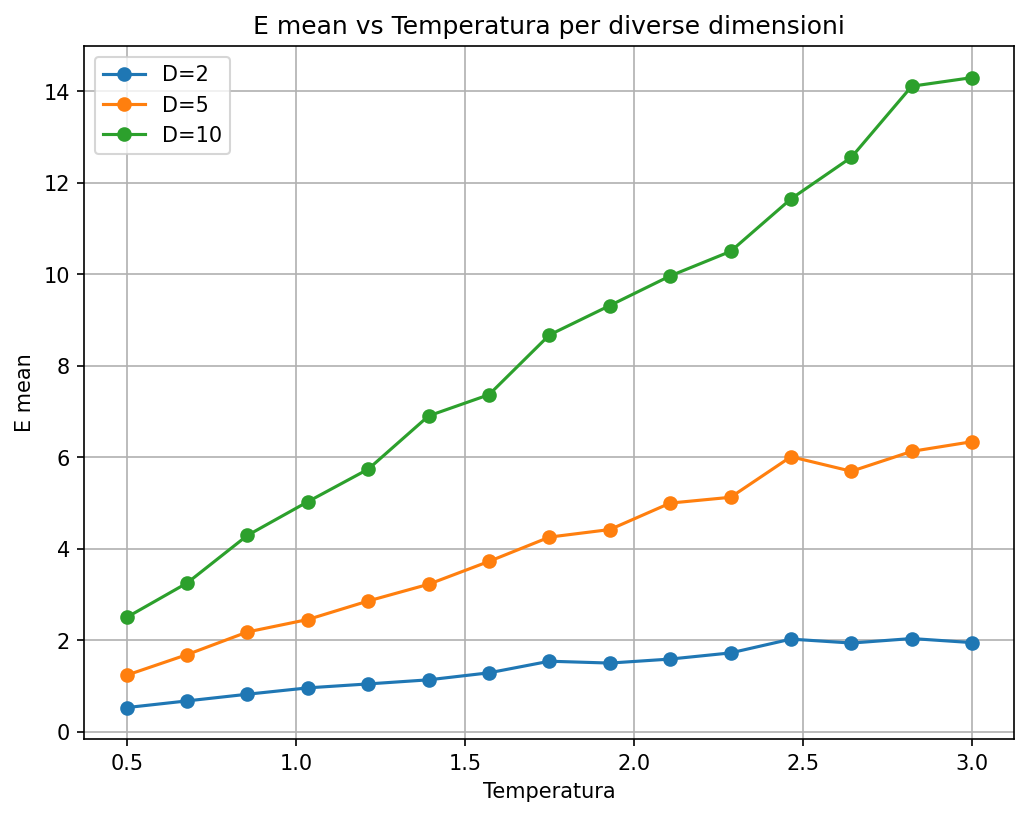
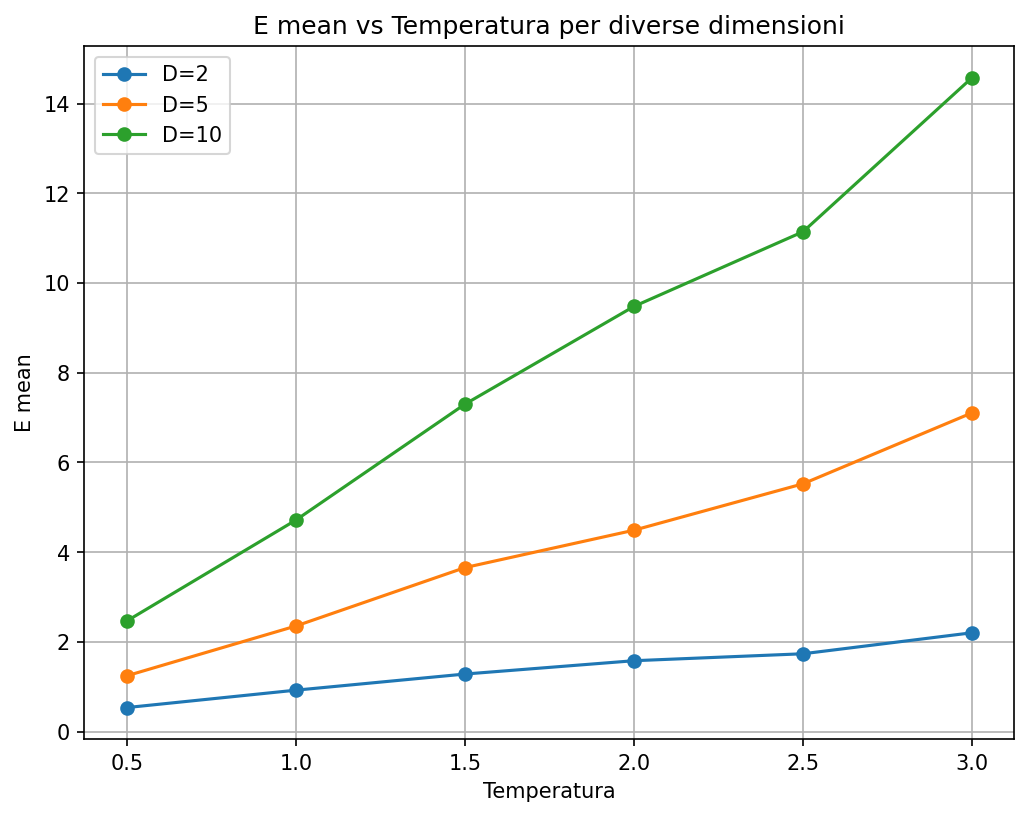
minor changes

diff --git a/source/main.py b/source/main.py
@@ -7,7 +7,7 @@ import jax.numpy as jnp
 
 def main():
     dimensions = [2, 5, 10]
-    temperatures = jnp.linspace(0.5, 3.0, 15)
+    temperatures = jnp.linspace(0.5, 3.0, 6)
     n_thermalization = 20000
     n_steps = 80000
     step_size = 0.1
@@ -20,10 +20,11 @@ def main():
             "E_mean": [],
             "Cv_D": [],
             "acceptance": [],
-            "tau": []
+            "tau_x": [],
+            "tau_x^2": []
         }
         key = jax.random.PRNGKey(0)
-        x, key = metro.generate_config(key, D)
+        x, key = metro.generate_config(key, D, "zeros")
 
         for T in temperatures:
             _, _, key , x = metro.run_simulation(key, T, n_thermalization, step_size, initial_x=x)
@@ -31,21 +32,14 @@ def main():
             trajectory, acceptance_rate, key , x = metro.run_simulation(
                 key, T, n_steps, step_size, initial_x=x)
 
-            E_mean = obs.mean_energy(trajectory)
-            Cv = obs.heat_capacity(trajectory, T)
-            Cv_per_dim = Cv / trajectory.shape[1]
-            tau = obs.integrated_autocorrelation_time(trajectory[:,0])
-
-            results[D]["T"].append(T)
-            results[D]["E_mean"].append(E_mean)
-            results[D]["Cv_D"].append(Cv_per_dim)
-            results[D]["acceptance"].append(acceptance_rate)
-            results[D]["tau"].append(tau)
+            obs.append_observables(results, D, T, trajectory, acceptance_rate)
             print(f"D={D}, T={T:.3f}.")
 
     plot.plot_obs__D_T(results, dimensions, "E_mean")
     plot.plot_obs__D_T(results, dimensions, "Cv_D")
-    plot.plot_obs__D_T(results, dimensions, "tau")
+    plot.plot_obs__D_T(results, dimensions, "tau_x")
+    plot.plot_obs__D_T(results, dimensions, "tau_x^2")
+    plot.plot_obs__D_T(results, dimensions, "acceptance")
 
 
 if __name__ == "__main__":

diff --git a/source/metropolis.py b/source/metropolis.py
@@ -3,10 +3,19 @@ import jax.numpy as jnp
 import functools
 import observable as obs
 
-@functools.partial(jax.jit, static_argnums=(1,))
-def generate_config(key, D):
+@functools.partial(jax.jit, static_argnums=(1,2))
+def generate_config(key, D, type="uniform"):
     key, subkey = jax.random.split(key)
-    x = jax.random.uniform(subkey, shape=(D,))
+    if type == "uniform":
+        x = jax.random.uniform(subkey, shape=(D,))
+    elif type == "normal":
+        x = jax.random.normal(subkey, shape=(D,))
+    elif type == "zeros":
+        x = jnp.zeros(D)
+    elif type == "ones":
+        x = jnp.ones(D)
+    else:
+        raise ValueError(f"Tipo di configurazione sconosciuto: {type}")
     return x, key
 
 @functools.partial(jax.jit, static_argnums=(1,))

diff --git a/source/observable.py b/source/observable.py
@@ -31,3 +31,16 @@ def integrated_autocorrelation_time(x, c=5.0):
         if t >= c * tau:  # finestra self-consistent
             break
     return tau
+
+def append_observables(results, D, T, trajectory, acceptance_rate):
+    E_mean = mean_energy(trajectory)
+    Cv = heat_capacity(trajectory, T)
+    tau_x= integrated_autocorrelation_time(trajectory[:,0])
+    tau_x2 = integrated_autocorrelation_time(trajectory[:,0]**2)
+
+    results[D]["T"].append(T)
+    results[D]["E_mean"].append(E_mean)
+    results[D]["Cv"].append(Cv)
+    results[D]["acceptance"].append(acceptance_rate)
+    results[D]["tau_x"].append(tau_x)
+    results[D]["tau_x^2"].append(tau_x2)
